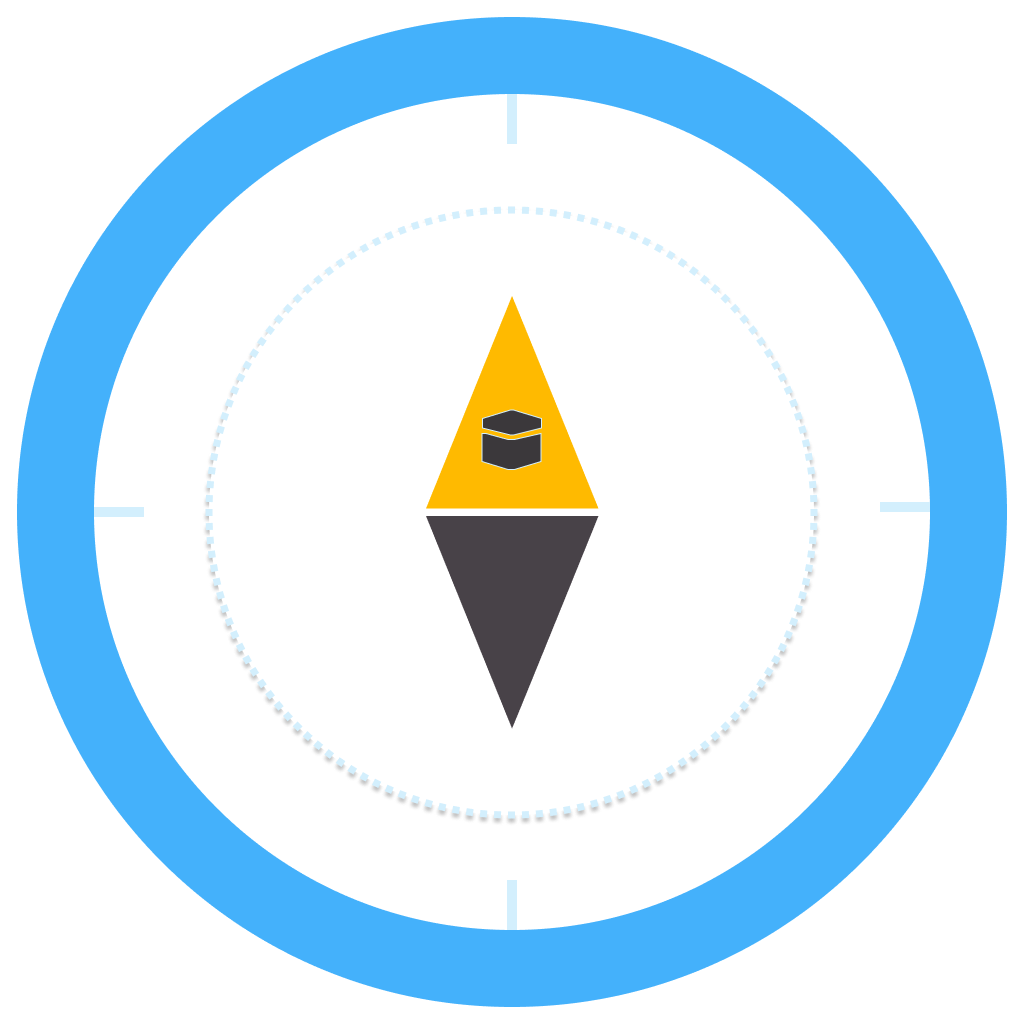
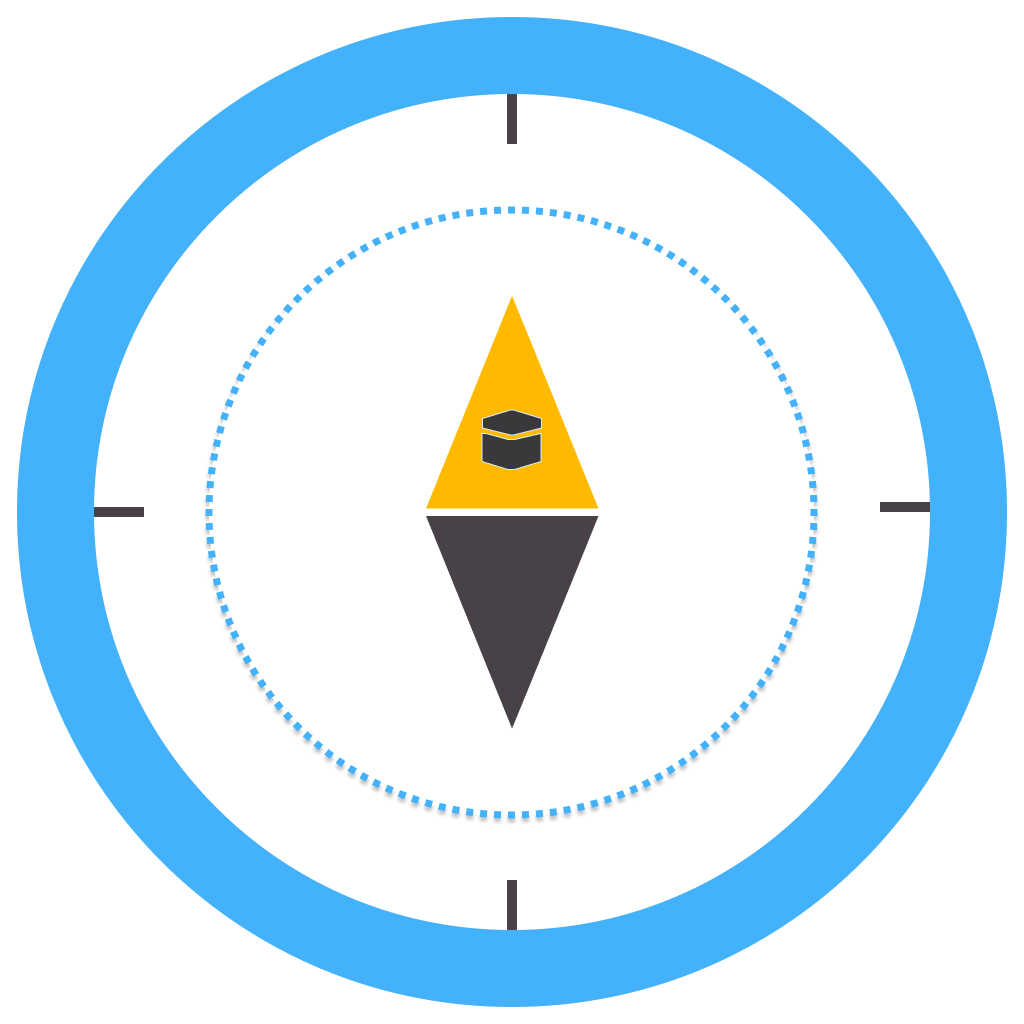
mengganti warna tema dan memperbaiki kompas

diff --git a/lib/screen/qiblah_screen.dart b/lib/screen/qiblah_screen.dart
@@ -1,5 +1,4 @@
 import 'dart:math';
-
 import 'package:flutter/material.dart';
 import 'package:flutter_qiblah/flutter_qiblah.dart';
 
@@ -14,13 +13,17 @@ Animation<double>? animation;
 AnimationController? _animationController;
 double begin = 0.0;
 
+// smoothing filter
+double filteredAngle = 0.0;
+const smoothing = 0.15; // Semakin kecil = semakin halus
+
 class _QiblahScreenState extends State<QiblahScreen>
     with SingleTickerProviderStateMixin {
   @override
   void initState() {
     _animationController = AnimationController(
       vsync: this,
-      duration: const Duration(milliseconds: 500),
+      duration: const Duration(milliseconds: 300), // lebih cepat dan smooth
     );
     animation = Tween(begin: 0.0, end: 0.0).animate(_animationController!);
     super.initState();
@@ -30,23 +33,32 @@ class _QiblahScreenState extends State<QiblahScreen>
   Widget build(BuildContext context) {
     return SafeArea(
       child: Scaffold(
-        backgroundColor: const Color.fromARGB(255, 48, 48, 48),
+        backgroundColor: const Color(0xFFD3EFFD),
         body: StreamBuilder(
           stream: FlutterQiblah.qiblahStream,
           builder: (context, snapshot) {
             if (snapshot.connectionState == ConnectionState.waiting) {
-              return Container(
-                alignment: Alignment.center,
-                child: const CircularProgressIndicator(color: Colors.white),
+              return const Center(
+                child: CircularProgressIndicator(color: Colors.white),
               );
             }
 
             final qiblahDirection = snapshot.data;
+
+            // raw angle dari library
+            final rawAngle = (qiblahDirection!.qiblah * (pi / 180) * -1);
+
+            // smoothing filter
+            filteredAngle =
+                filteredAngle + (rawAngle - filteredAngle) * smoothing;
+
+            // apply to animation
             animation = Tween(
               begin: begin,
-              end: (qiblahDirection!.qiblah * (pi / 180) * -1),
+              end: filteredAngle,
             ).animate(_animationController!);
-            begin = (qiblahDirection.qiblah * (pi / 180) * -1);
+
+            begin = filteredAngle;
             _animationController!.forward(from: 0);
 
             return Center(
@@ -55,7 +67,10 @@ class _QiblahScreenState extends State<QiblahScreen>
                 children: [
                   Text(
                     "${qiblahDirection.direction.toInt()}°",
-                    style: const TextStyle(color: Colors.white, fontSize: 24),
+                    style: const TextStyle(
+                      color: Color.fromARGB(255, 0, 0, 0),
+                      fontSize: 24,
+                    ),
                   ),
                   const SizedBox(height: 10),
                   SizedBox(
